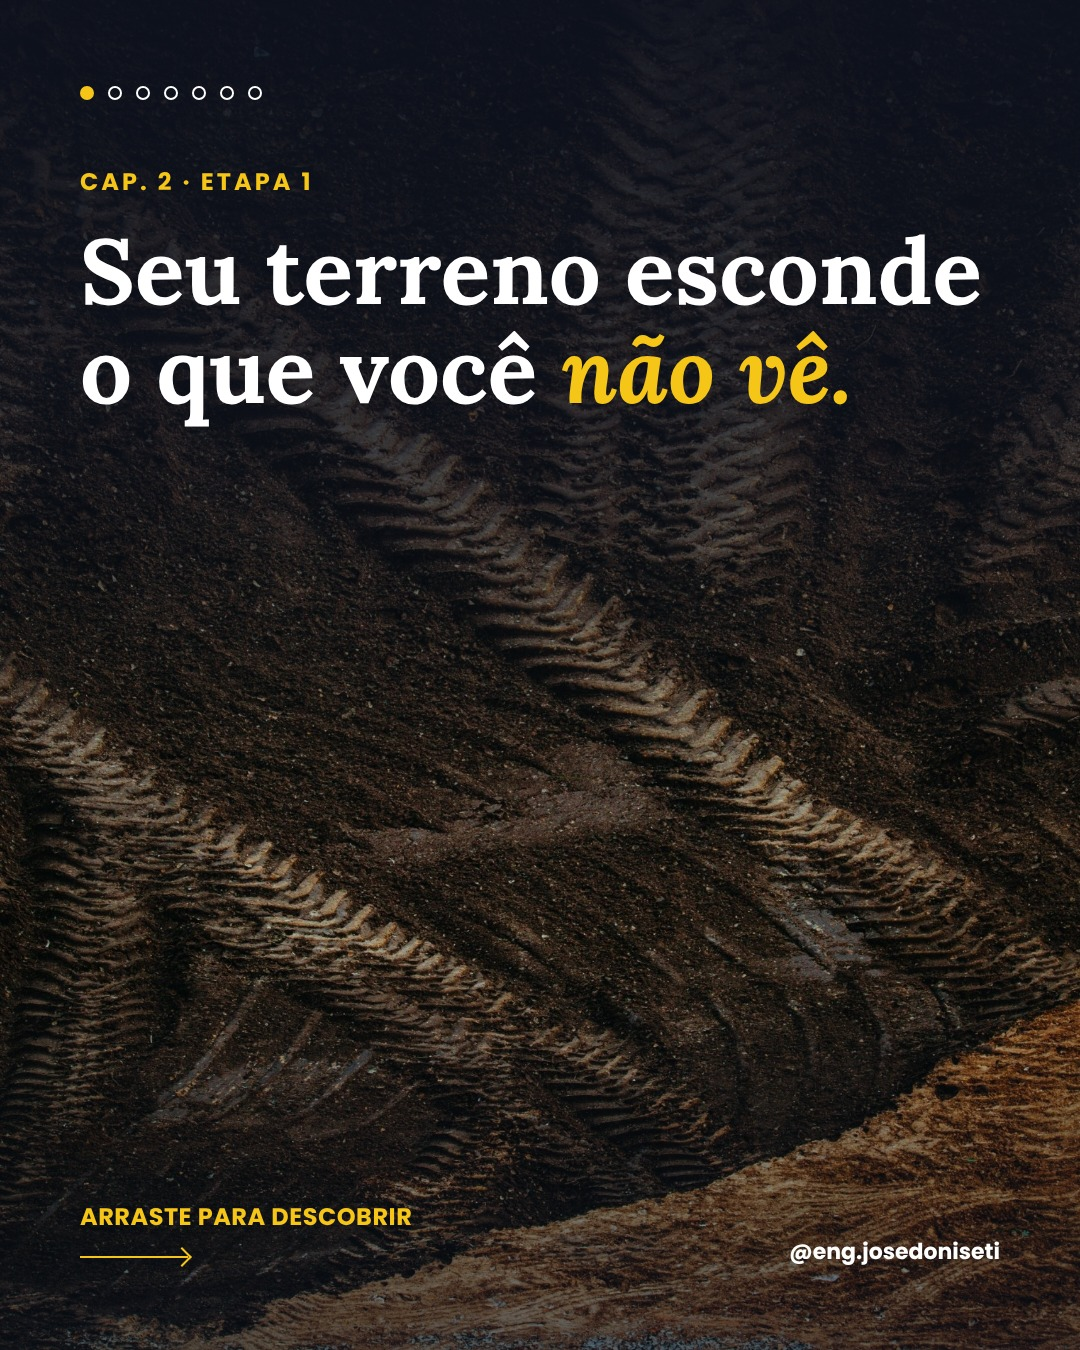
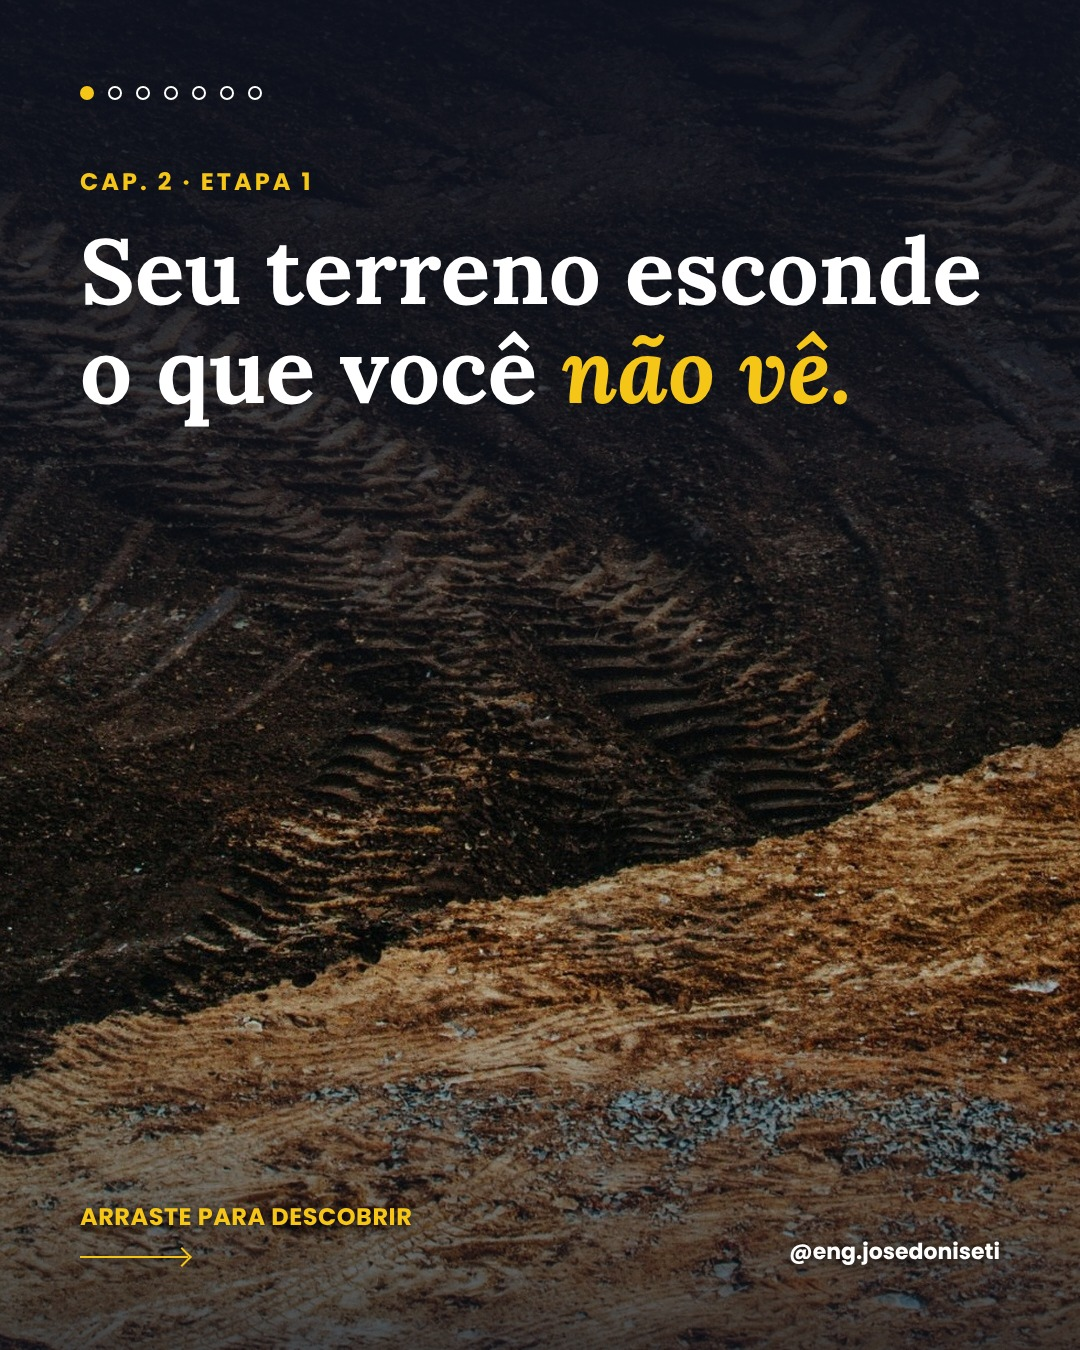
Cap.2: capa com encontro dos solos no meio do slide
Claude-Session: https://claude.ai/code/session_01Qmcx2L47Gh46qxGywp62mP

diff --git a/2026-10-29_carrossel-topografia-sondagem-cap2/src/render.py b/2026-10-29_carrossel-topografia-sondagem-cap2/src/render.py
@@ -18,7 +18,9 @@ CSS = """
 *{margin:0;padding:0;box-sizing:border-box}
 body{width:1080px;height:1350px;overflow:hidden;font-family:Poppins;color:#fff}
 .s{position:relative;width:1080px;height:1350px;background-size:cover;background-position:center}
-.s:before{content:"";position:absolute;inset:0;background:linear-gradient(180deg,rgba(14,18,30,.92) 0%,rgba(14,18,30,.70) 30%,rgba(14,18,30,.10) 55%,rgba(14,18,30,0) 70%,rgba(14,18,30,.55) 100%)}
+.s:before{content:"";position:absolute;inset:0;background:linear-gradient(180deg,rgba(14,18,30,.92) 0%,rgba(14,18,30,.70) 30%,rgba(14,18,30,.10) 55%,rgba(14,18,30,0) 70%,rgba(14,18,30,.70) 100%)}
+.cta,.h{text-shadow:0 2px 10px rgba(0,0,0,.85)}
+.cta i{box-shadow:0 1px 6px rgba(0,0,0,.8)}
 .c{position:absolute;inset:0;padding:80px}
 .dots{display:flex;gap:14px;margin-top:6px}
 .dot{width:14px;height:14px;border:2px solid #fff;border-radius:50%}
